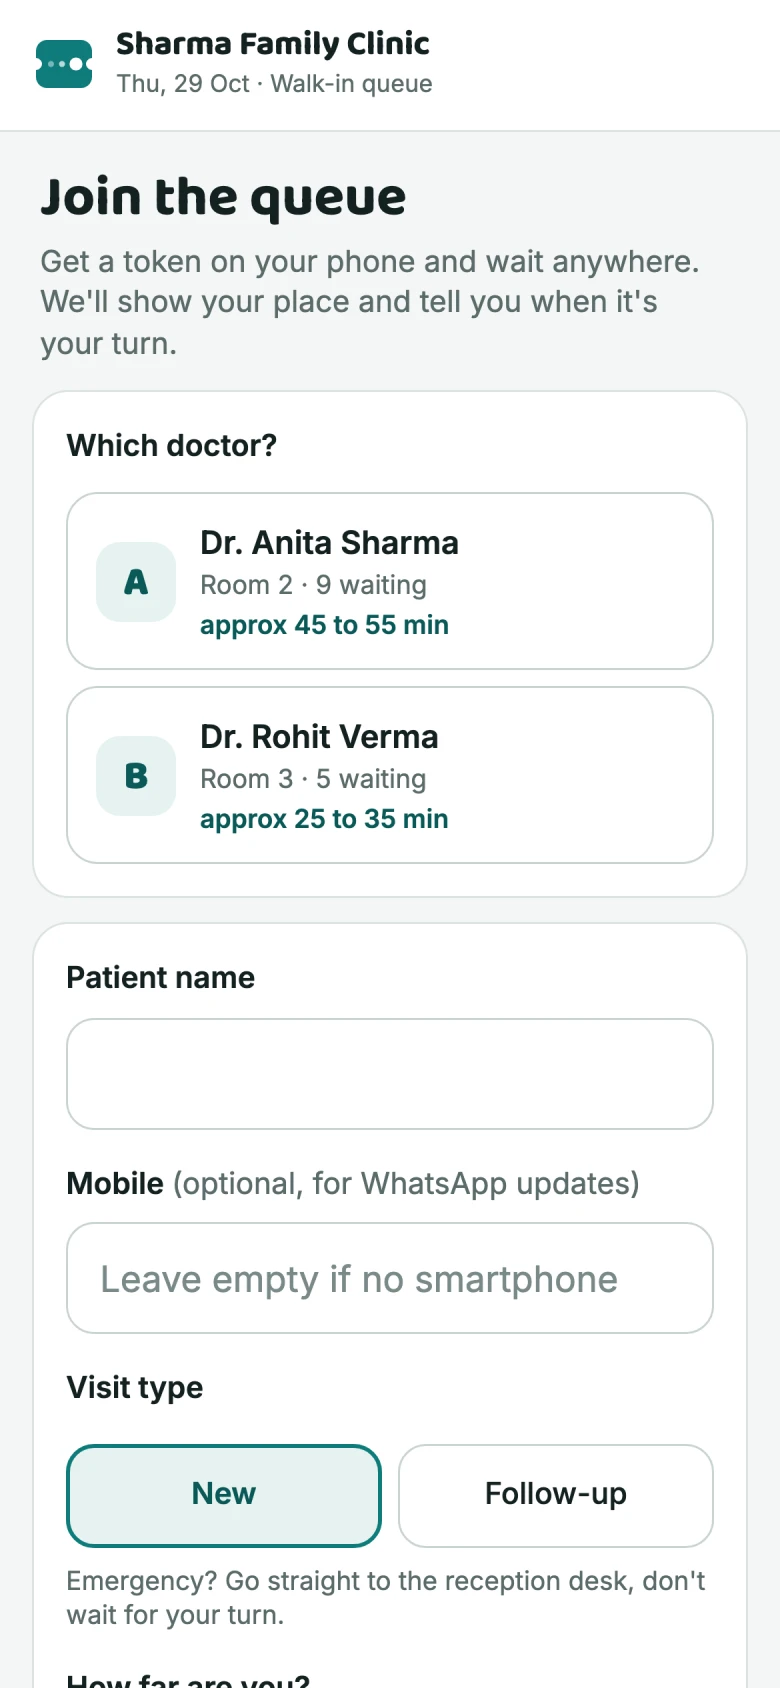
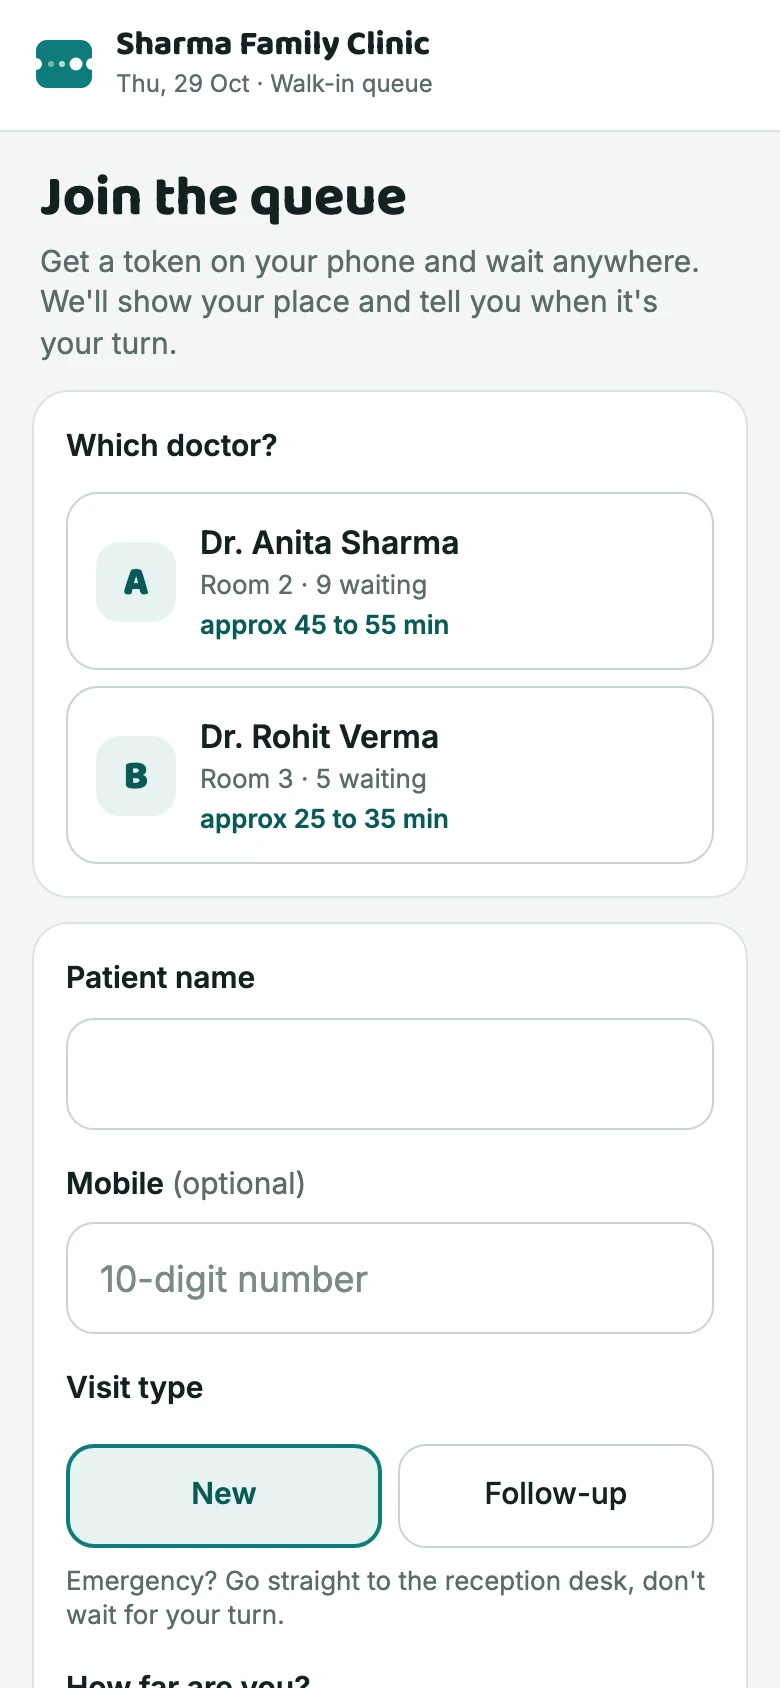
Stop promising WhatsApp updates and record the messaging findings
Nothing sends patient messages yet, but several screens said it would:
the pause dialog's "Also send a WhatsApp update" checkbox (which queued
outbox docs no sender ever delivered), the "(optional, for WhatsApp
updates)" mobile labels on the join and walk-in forms, the clinic-name
hints in setup and settings, and the offline banner. Those are removed
and the landing page's join screenshot is retaken to match.

Pausing now writes only the queue day. The outbox security rule stays so
a desk tab on an older build, or holding a pause saved offline, isn't
refused; the OutboxMessage type and path are gone from the code.

docs/NOTIFICATIONS.md records what we found: which channels suit
patients with basic phones (desk call button, SMS, WhatsApp, Hindi voice
calls, paper), WhatsApp costs against our pricing, and how reminders
should be built on the server when the time comes.

Changed region(s): [[0.1231, 0.7393, 0.8, 0.7701], [0.4, 0.6777, 0.6462, 0.7085], [0.6769, 0.6777, 0.8308, 0.7085]]

diff --git a/src/components/reception/modals/PauseQueueModal.tsx b/src/components/reception/modals/PauseQueueModal.tsx
@@ -25,8 +25,6 @@ function shortReason(reason: string): string {
 export interface PauseQueueModalProps {
   open: boolean;
   doctorName: string;
-  /** "Also send a WhatsApp update to the 9 people waiting"; the checkbox is hidden at 0. */
-  waitingWithPhone: number;
   /** For the "45 min (1:30 PM)" labels and the backAt it confirms. */
   now: number;
   timezone: string;
@@ -37,7 +35,11 @@ export interface PauseQueueModalProps {
   solidBackdrop?: boolean;
 }
 
-/** Artboard 04. Defaults match the artboard: Lunch break, back in 45 min, notify on. */
+/**
+ * Artboard 04. Defaults match the artboard: Lunch break, back in 45 min.
+ * The artboard's "Also send a WhatsApp update" checkbox is left out until
+ * patient messages exist (docs/NOTIFICATIONS.md).
+ */
 export function PauseQueueModal(props: PauseQueueModalProps) {
   // Mounting the body only while open resets the choices on every opening.
   return props.open ? <PauseDialog {...props} /> : null;
@@ -45,7 +47,6 @@ export function PauseQueueModal(props: PauseQueueModalProps) {
 
 function PauseDialog({
   doctorName,
-  waitingWithPhone,
   now,
   timezone,
   onClose,
@@ -60,7 +61,6 @@ function PauseDialog({
   const [customReason, setCustomReason] = useState("");
   const [customError, setCustomError] = useState<string | null>(null);
   const [backIn, setBackIn] = useState<BackInChoice>(45);
-  const [notify, setNotify] = useState(true);
   const customRef = useRef<HTMLInputElement>(null);
 
   const reason = reasonChoice === CUSTOM ? customReason.trim() : shortReason(reasonChoice);
@@ -85,7 +85,7 @@ function PauseDialog({
       customRef.current?.focus();
       return;
     }
-    onConfirm({ reason, backAt, notify: notify && waitingWithPhone > 0 });
+    onConfirm({ reason, backAt });
   }
 
   return (
@@ -197,17 +197,6 @@ function PauseDialog({
                 message
               )}
             </p>
-            {waitingWithPhone > 0 && (
-              <label className="flex min-h-11 items-center gap-2.5 text-[15px]">
-                <input
-                  type="checkbox"
-                  checked={notify}
-                  onChange={(e) => setNotify(e.target.checked)}
-                  className="m-0 size-[22px] shrink-0 accent-teal"
-                />
-                {`Also send a WhatsApp update to the ${waitingWithPhone} ${waitingWithPhone === 1 ? "person" : "people"} waiting`}
-              </label>
-            )}
           </div>
 
           <div className="flex gap-2.5">

diff --git a/src/components/reception/useReceptionHandlers.test.ts b/src/components/reception/useReceptionHandlers.test.ts
@@ -203,23 +203,21 @@ describe("walk-in slip", () => {
 });
 
 describe("pause", () => {
-  it("sends the pause message only to waiting patients with a phone", () => {
-    const { desk } = setup([
-      ticket(20, { phone: "9829012345" }),
-      ticket(21),
-      ticket(22, { phone: "9876543210", status: "done" }),
-    ]);
+  it("pauses with the reason and return time, and messages nobody", () => {
+    const { desk } = setup([ticket(20, { phone: "9829012345" }), ticket(21)]);
+    const backAt = Date.UTC(2026, 9, 29, 8, 0);
 
-    desk.confirmPause(doctor.id, { reason: "Lunch", backAt: Date.UTC(2026, 9, 29, 8, 0), notify: true });
+    desk.confirmPause(doctor.id, { reason: "Lunch", backAt });
 
-    const input = vi.mocked(actions.pauseQueue).mock.calls[0][1];
-    expect(input.reason).toBe("Lunch");
-    expect(input.notify).toEqual([
-      {
-        phone: "9829012345",
-        body: "Sharma Family Clinic, token A-20. Doctor is on a short break (Lunch). Back around 1:30 PM. Your place is safe.",
-      },
-    ]);
+    expect(vi.mocked(actions.pauseQueue).mock.calls[0][1]).toEqual({ doctorId: doctor.id, reason: "Lunch", backAt });
+  });
+
+  it("falls back to 'Break' when the typed reason is blank", () => {
+    const { desk } = setup([ticket(20)]);
+
+    desk.confirmPause(doctor.id, { reason: "   ", backAt: null });
+
+    expect(vi.mocked(actions.pauseQueue).mock.calls[0][1].reason).toBe("Break");
   });
 
   it("keeps Next and Not here off while paused, with a notice instead", () => {

diff --git a/src/app/preview/pause-queue/page.tsx b/src/app/preview/pause-queue/page.tsx
@@ -9,7 +9,7 @@ import { DEFAULT_TIMEZONE, formatClock } from "@/lib/time";
 /** 12:45 PM IST on the design's day, so "45 min" reads "(1:30 PM)". */
 const NOW = Date.parse("2026-10-29T12:45:00+05:30");
 
-/** Artboard 04: the pause dialog open for Dr. Anita Sharma with 9 people to notify. */
+/** Artboard 04: the pause dialog open for Dr. Anita Sharma. */
 export default function PauseQueuePreview() {
   const [open, setOpen] = useState(true);
   const [confirmed, setConfirmed] = useState<PauseFormInput | null>(null);
@@ -18,8 +18,7 @@ export default function PauseQueuePreview() {
     <main className="flex min-h-dvh flex-col items-center justify-center gap-4 bg-scrim p-4 text-white">
       {confirmed && (
         <p className="text-[16px]">
-          Paused: {confirmed.reason}, back {confirmed.backAt ? formatClock(confirmed.backAt) : "not sure"},{" "}
-          {confirmed.notify ? "notifying" : "not notifying"} patients.
+          Paused: {confirmed.reason}, back {confirmed.backAt ? formatClock(confirmed.backAt) : "not sure"}.
         </p>
       )}
       <button
@@ -32,7 +31,6 @@ export default function PauseQueuePreview() {
       <PauseQueueModal
         open={open}
         doctorName={sharmaQueue.doctor.name}
-        waitingWithPhone={9}
         now={NOW}
         timezone={DEFAULT_TIMEZONE}
         onClose={() => setOpen(false)}

diff --git a/src/lib/queue/actions.ts b/src/lib/queue/actions.ts
@@ -18,7 +18,7 @@ import {
 } from "firebase/firestore";
 import { getDb } from "@/lib/firebase";
 import { paths } from "@/lib/paths";
-import type { DeskTicket, Doctor, OutboxMessage, PauseInfo, QueueDay, Ticket, TicketPrivate, VisitType } from "@/lib/types";
+import type { DeskTicket, Doctor, PauseInfo, QueueDay, Ticket, TicketPrivate, VisitType } from "@/lib/types";
 import {
   MOVE_BACK_PLACES,
   positionAfterMoveBack,
@@ -392,8 +392,6 @@ export interface PauseInput {
   doctorId: string;
   reason: string;
   backAt: number | null;
-  /** WhatsApp text for each waiting patient with a phone; empty to skip notifying. */
-  notify: { phone: string; body: string }[];
 }
 
 /** Pauses one doctor's queue. Places are kept; ETAs freeze until resumed. */
@@ -407,17 +405,6 @@ export function pauseQueue(ctx: DeskContext, input: PauseInput): Promise<void> {
     { clinicId: ctx.clinicId, doctorId: input.doctorId, date: ctx.date, paused },
     { merge: true },
   );
-  for (const n of input.notify) {
-    const msg: Omit<OutboxMessage, "id"> = {
-      clinicId: ctx.clinicId,
-      to: n.phone,
-      kind: "pause",
-      body: n.body,
-      status: "queued",
-      createdAt: now,
-    };
-    batch.set(doc(collection(db, paths.outbox(ctx.clinicId))), msg);
-  }
   return batch.commit();
 }
 

diff --git a/src/components/reception/useReceptionHandlers.ts b/src/components/reception/useReceptionHandlers.ts
@@ -31,10 +31,9 @@ import {
   servingFor,
   waitingFor,
 } from "@/lib/queue/logic";
-import { formatClock, formatSlipStamp } from "@/lib/time";
+import { formatSlipStamp } from "@/lib/time";
 import type { Clinic, DeskTicket, Doctor, QueueDay, Ticket } from "@/lib/types";
 import {
-  pauseMessage,
   type IssuedSlip,
   type PauseFormInput,
   type ReceptionHandlers,
@@ -312,14 +311,7 @@ export function createDeskActions(get: () => DeskDeps): DeskActions {
     attempt("Couldn't pause the queue", (s) => {
       // The modal already turns "Lunch break" into "Lunch"; typed reasons stay as written.
       const reason = input.reason.trim() || "Break";
-      const backAtLabel = input.backAt !== null ? formatClock(input.backAt, s.clinic.timezone) : null;
-      const message = pauseMessage(reason, backAtLabel);
-      const notify = input.notify
-        ? waitingFor(s.tickets, doctorId).flatMap((t) =>
-            t.phone ? [{ phone: t.phone, body: `${s.clinic.name}, token ${t.label}. ${message}` }] : [],
-          )
-        : [];
-      send("Couldn't pause the queue", pauseQueue(s.ctx, { doctorId, reason, backAt: input.backAt, notify }));
+      send("Couldn't pause the queue", pauseQueue(s.ctx, { doctorId, reason, backAt: input.backAt }));
     });
   }
 

diff --git a/src/lib/types.ts b/src/lib/types.ts
@@ -11,7 +11,6 @@
  *   clinics/{clinicId}/queues/{queueId}    QueueDay        public read; queueId = `${doctorId}_${date}`
  *   clinics/{clinicId}/tickets/{ticketId}  Ticket          public read; no names or phone numbers
  *   clinics/{clinicId}/ticketPrivate/{id}  TicketPrivate   members + the patient who joined
- *   clinics/{clinicId}/outbox/{id}         OutboxMessage   members only; WhatsApp messages to send
  *   users/{uid}                            UserProfile     the signed-in clinic account
  */
 
@@ -132,16 +131,6 @@ export interface TicketPrivate {
   phone: string | null;
   /** Anonymous-auth uid of a patient who joined by QR, so they can read their own ticket. */
   patientUid: string | null;
-}
-
-export interface OutboxMessage {
-  id: string;
-  clinicId: string;
-  to: string;
-  kind: "pause" | "resume" | "turn_soon" | "joined";
-  body: string;
-  status: "queued" | "sent" | "failed";
-  createdAt: number;
 }
 
 export interface UserProfile {

diff --git a/src/components/public/patient/JoinForm.tsx b/src/components/public/patient/JoinForm.tsx
@@ -221,7 +221,7 @@ export function JoinForm({ clinicName, dateLabel, doctors, existing, onSubmit, i
 
             <div className="flex flex-col gap-2">
               <label htmlFor={`${ids}-phone`} className="text-[15px] font-semibold">
-                Mobile <span className="font-normal text-muted">(optional, for WhatsApp updates)</span>
+                Mobile <span className="font-normal text-muted">(optional)</span>
               </label>
               <input
                 ref={phoneRef}
@@ -230,7 +230,7 @@ export function JoinForm({ clinicName, dateLabel, doctors, existing, onSubmit, i
                 type="tel"
                 inputMode="tel"
                 autoComplete="tel-national"
-                placeholder="Leave empty if no smartphone"
+                placeholder="10-digit number"
                 value={phone}
                 onChange={(e) => {
                   setPhone(e.target.value);

diff --git a/src/components/reception/ReceptionApp.tsx b/src/components/reception/ReceptionApp.tsx
@@ -62,7 +62,6 @@ import { getFirebaseAuth } from "@/lib/firebase";
 import { useClinic, useDeskTickets, useDoctors, useNow, useQueueDays, useStaff } from "@/lib/hooks";
 import { initialsOf } from "@/lib/pin";
 import type { DeskContext } from "@/lib/queue/actions";
-import { waitingFor } from "@/lib/queue/logic";
 import { dateKey } from "@/lib/time";
 import { buildClinicHeader, buildDoctorQueueView } from "@/lib/view";
 
@@ -284,7 +283,6 @@ function ReceptionDesk({ session }: { session: ClinicSession }) {
         <PauseQueueModal
           open={pauseDoctor !== null}
           doctorName={pauseDoctor?.name ?? ""}
-          waitingWithPhone={pauseDoctor ? waitingFor(desk.tickets, pauseDoctor.id).filter((t) => t.phone).length : 0}
           now={now}
           timezone={timezone}
           onClose={() => setPauseFor(null)}

diff --git a/src/components/reception/modals/AddWalkInModal.tsx b/src/components/reception/modals/AddWalkInModal.tsx
@@ -215,7 +215,7 @@ function WalkInDialog({
 
           <div className="flex flex-col gap-2">
             <label htmlFor={phoneId} className="text-[15px] font-semibold">
-              Mobile <span className="font-normal text-muted">(optional, for WhatsApp updates)</span>
+              Mobile <span className="font-normal text-muted">(optional)</span>
             </label>
             <input
               ref={phoneRef}
@@ -225,7 +225,7 @@ function WalkInDialog({
               maxLength={16}
               autoComplete="off"
               enterKeyHint="go"
-              placeholder="Leave empty if no smartphone"
+              placeholder="10-digit number"
               value={draft.phone}
               onChange={(e) => edit("phone", e.target.value)}
               aria-invalid={errors.phone ? true : undefined}

diff --git a/src/components/reception/handlers.ts b/src/components/reception/handlers.ts
@@ -62,11 +62,9 @@ export interface PauseFormInput {
   reason: string;
   /** Epoch ms the doctor is expected back, or null for "Not sure". */
   backAt: number | null;
-  /** Also send a WhatsApp update to waiting patients with phones. */
-  notify: boolean;
 }
 
-/** Text shown on the TV, patient phones and WhatsApp while a queue is paused. */
+/** Text shown on the TV and patient phones while a queue is paused. */
 export function pauseMessage(reason: string, backAtLabel: string | null): string {
   const back = backAtLabel ? ` Back around ${backAtLabel}.` : "";
   return `Doctor is on a short break (${reason}).${back} Your place is safe.`;

diff --git a/src/components/reception/OfflineBanner.tsx b/src/components/reception/OfflineBanner.tsx
@@ -23,7 +23,7 @@ export function OfflineBanner({ offlineFor, pendingCount }: OfflineBannerProps) 
           Internet is down. Keep working, we&apos;ll catch up.
         </p>
         <p className="text-[13px] sm:text-[14px]">
-          {saved}Patient phones and the TV will update when the connection is back. WhatsApp alerts are on hold.
+          {saved}Patient phones and the TV will update when the connection is back.
         </p>
       </div>
       <span className="flex-none rounded-full bg-amber-chip px-3 py-[6px] text-[13px] font-bold whitespace-nowrap">

diff --git a/src/components/auth/settings/ClinicDetailsCard.tsx b/src/components/auth/settings/ClinicDetailsCard.tsx
@@ -82,7 +82,7 @@ export function ClinicDetailsCard({ clinic, onSave }: { clinic: Clinic; onSave(p
 
   return (
     <Card labelledBy={`${id}-title`}>
-      <CardHeader id={`${id}-title`} title="Clinic" description="Shown on the TV, token slips and WhatsApp updates." />
+      <CardHeader id={`${id}-title`} title="Clinic" description="Shown on the TV, token slips and patients' phones." />
       <form noValidate onSubmit={handleSubmit} className="flex flex-col gap-[18px]">
         <TextField
           id={`${id}-name`}
